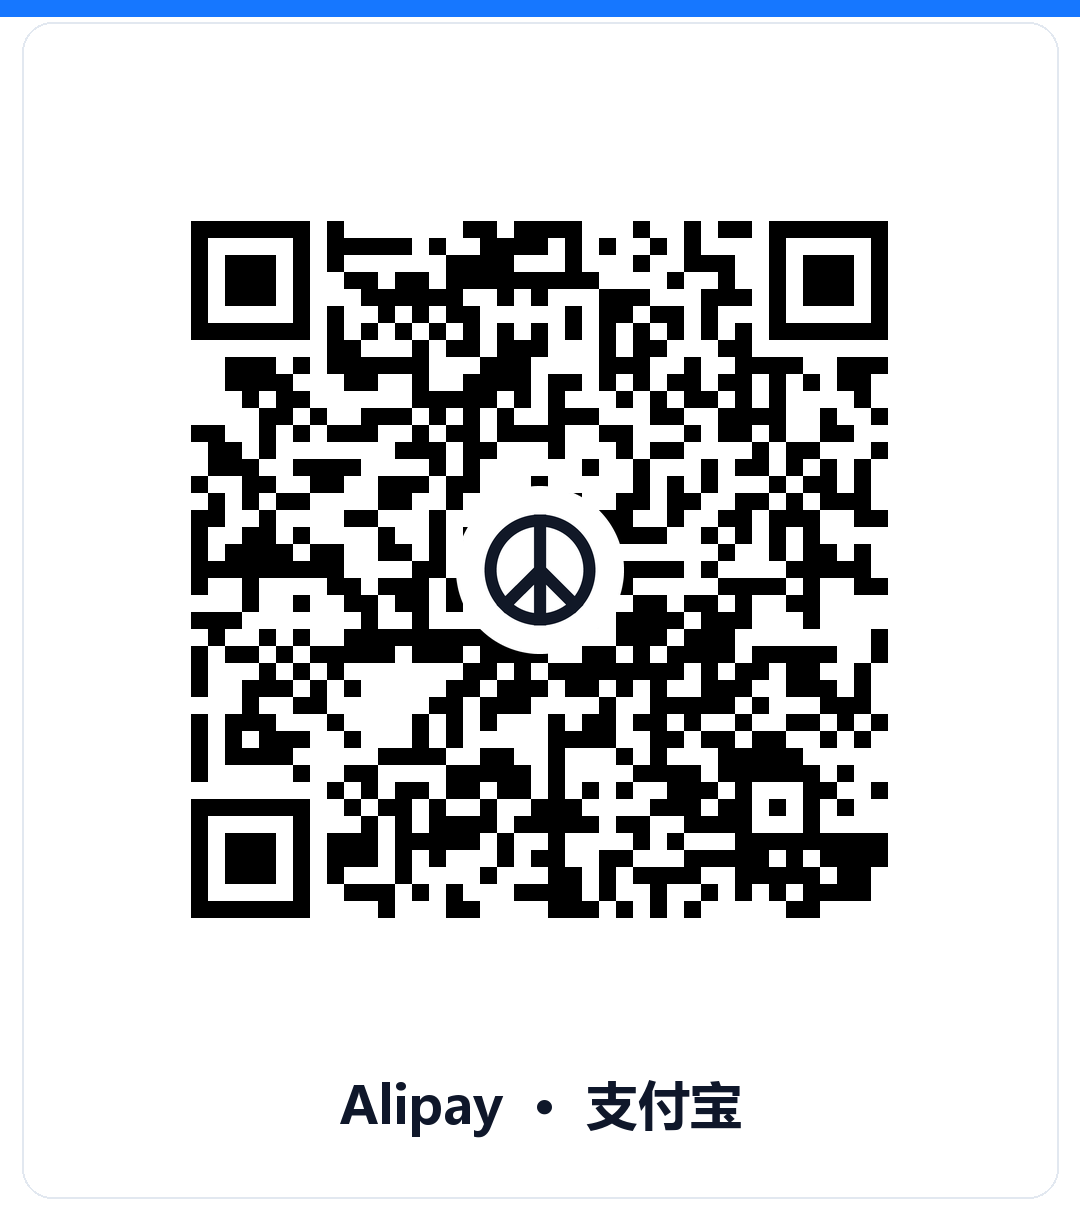
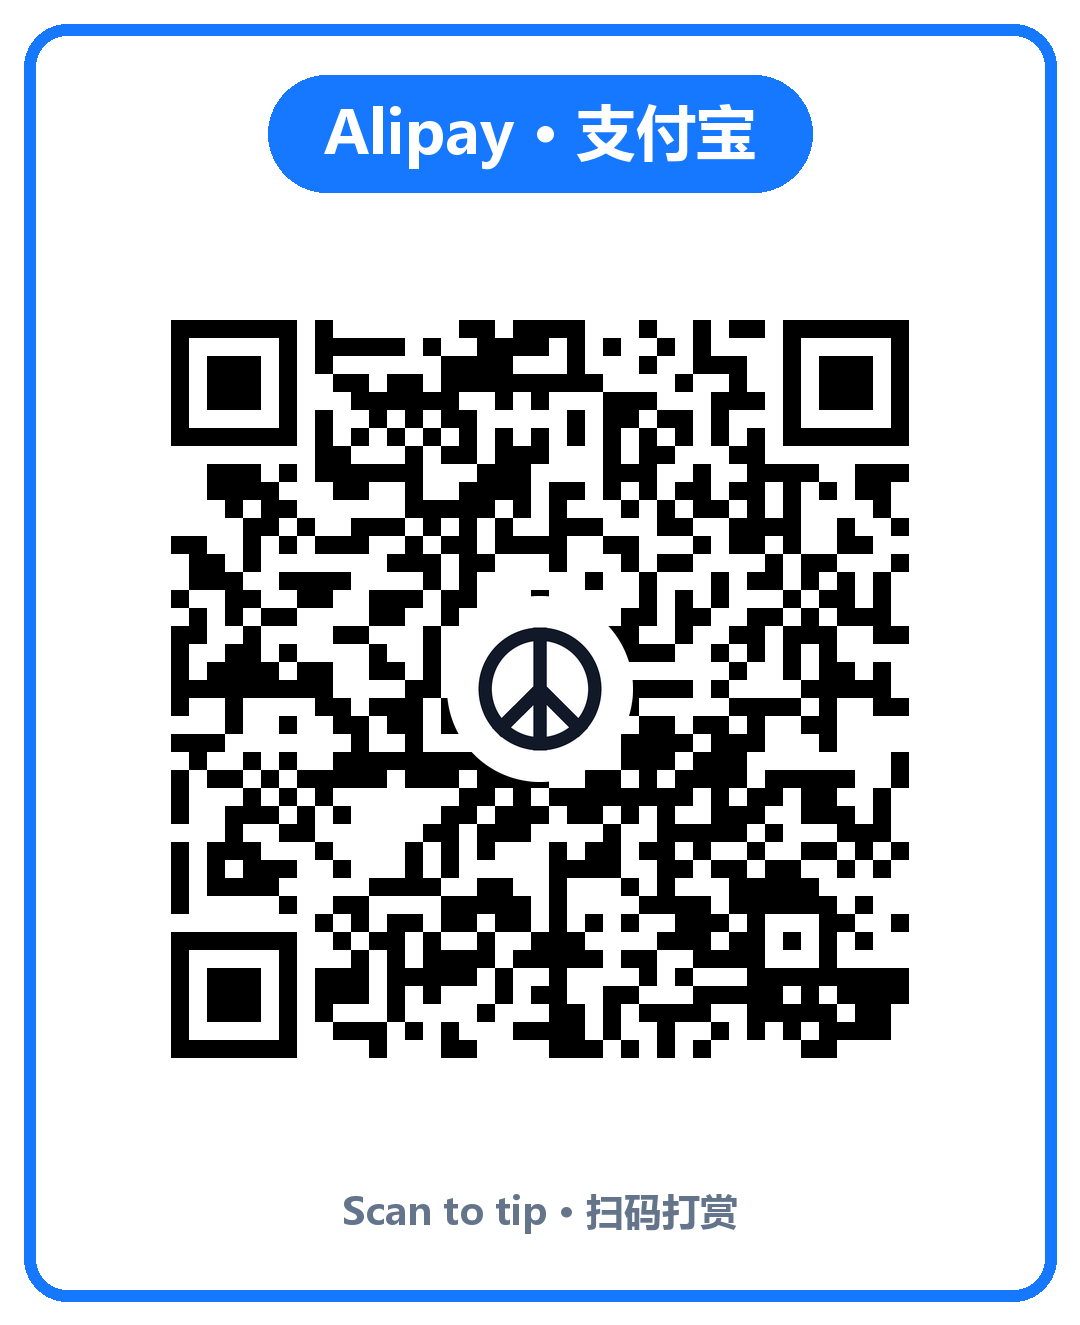
docs: add an MIT licence, brand-coloured tip cards and a working back-to-top link
- add the missing MIT LICENSE and surface it as a hero badge plus a Licence
  section; without it the repository was "all rights reserved" by default
- redraw both tip cards: the accent colour now fills a rounded frame and a
  header pill, so the WeChat card reads green (07C160) and the Alipay card
  blue (1677FF) -- palette only, still no platform logo or wordmark
- give the tip jar an actual pitch in both languages instead of burying it
  under "a star, a bug report or a tip all count"
- replace href="#" with a real id="top" anchor: GitHub rewrites user-supplied
  ids to user-content-top, so the bare "#" resolved to nothing and the link
  was dead

diff --git a/README.md b/README.md
@@ -1,4 +1,4 @@
-<p align="center"><b>🌐</b> English · <a href="docs/i18n/README.zh-CN.md">Chinese</a></p>
+<p align="center"><a id="top"></a><b>🌐</b> English · <a href="docs/i18n/README.zh-CN.md">Chinese</a></p>
 
 <p align="center"><img src="docs/banner.jpg" alt="LLM Privacy Gateway" width="100%" /></p>
 
@@ -12,6 +12,7 @@
   <a href="#-install"><img src="https://img.shields.io/badge/Cross--Agent-Codex%20%7C%20DSH%20%7C%20OpenClaw%20%7C%20WorkBuddy%20%7C%20Claude%20%7C%20Doubao-0e83cd" alt="Cross-agent tools" /></a>
   <a href="#-security-model"><img src="https://img.shields.io/badge/Encryption-AES--256--GCM-critical" alt="AES-256-GCM" /></a>
   <a href="#-how-it-works"><img src="https://img.shields.io/badge/Zero%20Local%20Compute-CPU%20Only-success" alt="Zero local compute" /></a>
+  <a href="LICENSE"><img src="https://img.shields.io/badge/License-MIT-3DA639" alt="MIT License" /></a>
 </p>
 
 <p align="center">
@@ -20,7 +21,8 @@
   <a href="#-install">Install</a> &nbsp;·&nbsp;
   <a href="#-quick-start">Quick start</a> &nbsp;·&nbsp;
   <a href="#-security-model">Security</a> &nbsp;·&nbsp;
-  <a href="#support">Support</a>
+  <a href="#-support">Support</a> &nbsp;·&nbsp;
+  <a href="#-license">License</a>
 </p>
 
 ---
@@ -97,13 +99,24 @@ Read `references/rules.md` for the full rule set and their exact patterns.
 - "The model fully understands it, yet the provider cannot decrypt it" is cryptographically impossible. What this gateway actually delivers: the real data cannot be obtained, and anything stolen cannot be reconstructed.
 - For high-risk content (core secrets), use `--local` or the encrypted store — keep it off the wire entirely.
 
-## Support
+## ☕ Support
 
-Spare-time project, no company behind it. If it saved you time, a star, a bug report or a tip all count.
+Spare-time project, no company behind it, no ads, no telemetry, no paid tier. Every feature stays free for everyone — that does not change whether you tip or not.
+
+So this is not a paywall, it is a tip jar. But count up what it has already given you: the afternoon you did not spend redacting a contract by hand, the client file you could hand to an API without hesitating first. If it saved you even one of those, sending a little back is the most direct way to keep the next one saved too. A tip turns into hours spent on this project, and those hours have no other source.
+
+- ⭐ **Star the repository** — free, and it is what actually gets the project in front of people
+- 🐛 **Report a bug** — honestly worth more than a tip
+- 📣 **Send it to one person who needs it** — costs nothing, reaches exactly the right person
+- ☕ **Send a tip** — the most direct way to buy the project more time
 
 <p align="center">
-  <a href="docs/SUPPORT.md"><b>☕ Support options</b></a>
+  <a href="docs/SUPPORT.md"><b>☕ Support options · payment codes inside</b></a>
 </p>
+
+## 📄 License
+
+Released under the [MIT License](LICENSE) — use it, fork it, embed it in commercial products. All that is asked in return is that the copyright notice travels with the code.
 
 ## 🌐 Translations
 
@@ -114,4 +127,4 @@ Spare-time project, no company behind it. If it saved you time, a star, a bug re
 
 ---
 
-<p align="center"><sub><a href="#">Back to top</a></sub></p>
+<p align="center"><sub><a href="#top">Back to top</a></sub></p>

diff --git a/docs/i18n/README.zh-CN.md b/docs/i18n/README.zh-CN.md
@@ -1,4 +1,4 @@
-<p align="center"><b>🌐</b> <a href="../../README.md">English</a> · 简体中文</p>
+<p align="center"><a id="top"></a><b>🌐</b> <a href="../../README.md">English</a> · 简体中文</p>
 
 <p align="center"><img src="../../docs/banner.jpg" alt="LLM Privacy Gateway" width="100%" /></p>
 
@@ -12,6 +12,7 @@
   <a href="#-安装"><img src="https://img.shields.io/badge/Cross--Agent-Codex%20%7C%20DSH%20%7C%20OpenClaw%20%7C%20WorkBuddy%20%7C%20Claude%20%7C%20Doubao-0e83cd" alt="跨智能体工具" /></a>
   <a href="#-安全模型"><img src="https://img.shields.io/badge/Encryption-AES--256--GCM-critical" alt="AES-256-GCM" /></a>
   <a href="#-工作原理"><img src="https://img.shields.io/badge/Zero%20Local%20Compute-CPU%20Only-success" alt="零本地算力" /></a>
+  <a href="../../LICENSE"><img src="https://img.shields.io/badge/License-MIT-3DA639" alt="MIT 许可证" /></a>
 </p>
 
 <p align="center">
@@ -20,7 +21,8 @@
   <a href="#-安装">安装</a> &nbsp;·&nbsp;
   <a href="#-快速开始">快速开始</a> &nbsp;·&nbsp;
   <a href="#-安全模型">安全</a> &nbsp;·&nbsp;
-  <a href="#支持">支持</a>
+  <a href="#-支持">支持</a> &nbsp;·&nbsp;
+  <a href="#-许可证">许可证</a>
 </p>
 
 ---
@@ -97,13 +99,24 @@ python scripts/setup_deps.py
 - "模型完全理解，同时服务商无法解密"在密码学上不可能成立。本网关实际做到的是：真实数据无法被获取，被窃取的内容也无法还原。
 - 高危内容（核心机密）请使用 `--local` 或加密存储 —— 完全不让它上网。
 
-## 支持
+## ☕ 支持
 
-业余项目，背后没有公司。如果它为你省下了时间，点个 Star、报个 Bug 或请我喝杯咖啡都算数。
+业余项目，背后没有公司，没有广告，没有遥测，也没有付费版本。所有功能对所有人都免费 —— 你打不打赏，这一点都不会变。
+
+所以这里不是付费墙，只是一个随喜的钱箱。不过可以算一笔账：那些本该手动脱敏的下午，是它替你省下来的；那些以前不敢交给 API 的客户文件，现在可以直接给。既然真省下过时间，回赠一点，就是让下一个“省下来的下午”继续发生 —— 每一笔打赏都会变成实打实投在这个项目上的时间，而这些时间没有别的来源。
+
+- ⭐ **给项目点个 Star** —— 不花钱，而且真正能让项目被更多人看到
+- 🐛 **提一个 Bug** —— 说实话，比打赏更有价值
+- 📣 **转给一个需要它的人** —— 零成本，而且能精准触达
+- ☕ **打赏** —— 最直接地为这个项目争取更多时间
 
 <p align="center">
-  <a href="SUPPORT.zh-CN.md"><b>☕ 打赏方式</b></a>
+  <a href="SUPPORT.zh-CN.md"><b>☕ 打赏方式 · 收款码见此</b></a>
 </p>
+
+## 📄 许可证
+
+本项目基于 [MIT 许可证](../../LICENSE) 发布 —— 可以自由使用、Fork、嵌入商业产品，唯一的要求是版权声明随代码一同保留。
 
 ## 🌐 语言版本
 
@@ -114,4 +127,4 @@ python scripts/setup_deps.py
 
 ---
 
-<p align="center"><sub><a href="#">回到顶部</a></sub></p>
+<p align="center"><sub><a href="#top">回到顶部</a></sub></p>

diff --git a/docs/SUPPORT.md b/docs/SUPPORT.md
@@ -2,7 +2,7 @@
 
 <h1 align="center">☕ Support</h1>
 
-<p align="center"><b>No company, no ads, no telemetry, no paid tier, no investor to report to.</b></p>
+<p align="center"><b>No company, no ads, no telemetry, no paid tier, no investor to report to — and the code is MIT, so everyone already has the same rights.</b></p>
 
 <p align="center"><sub>Support is entirely optional — every feature stays free for everyone, whether you tip or not.</sub></p>
 
@@ -10,18 +10,18 @@
 
 ## Ways to help
 
-Starring and reporting cost nothing, and they usually help more than money does.
+All four rows below are real help. The tip is the only one that turns straight into maintenance hours, which is why it is the one this page is actually about.
 
 | | What | Why it matters |
 | :---: | :--- | :--- |
 | ⭐ | **Star the repository** | Free, and it is what actually gets the project in front of people |
 | 🐞 | **Report a bug, open a pull request** | Frequently worth more than a tip |
 | 📣 | **Tell somebody who needs it** | Costs nothing, reaches exactly the right person |
-| ☕ | **Send a tip** | Optional — codes below |
+| ☕ | **Send a tip** | The most direct way to buy the project more time — codes below |
 
 ## Tips
 
-Both codes are static and can be scanned repeatedly. Use the app that matches the code.
+Both codes are static and can be scanned repeatedly. Use the app that matches the code — the green card is WeChat Pay, the blue one is Alipay.
 
 <p align="center">
   <img src="assets/wechat-pay.png" alt="WeChat Pay QR code" width="240" />
@@ -51,7 +51,7 @@ If you would rather use another route — GitHub Sponsors, Ko-fi, Buy Me a Coffe
 
 ## Transparency
 
-There is no business behind this repository and no plan to start one. Nothing received buys a roadmap slot, a license change, or priority support.
+There is no business behind this repository and no plan to start one. The code is [MIT licensed](../LICENSE), and that licence already hands everyone the same rights — so nothing received buys a private build, a roadmap slot or priority support. There is nothing left to sell.
 
 It buys the maintainer some time to keep the thing working, and that is all it is.
 

diff --git a/docs/i18n/SUPPORT.zh-CN.md b/docs/i18n/SUPPORT.zh-CN.md
@@ -2,7 +2,7 @@
 
 <h1 align="center">☕ 支持本项目</h1>
 
-<p align="center"><b>没有公司，没有广告，没有遥测，没有付费版本，也没有需要汇报的投资人。</b></p>
+<p align="center"><b>没有公司，没有广告，没有遥测，没有付费版本，也没有需要汇报的投资人 —— 代码是 MIT 许可证，所有人本来就拥有同样的权利。</b></p>
 
 <p align="center"><sub>打赏完全出于自愿 —— 无论是否打赏，所有功能对所有人都保持免费可用。</sub></p>
 
@@ -10,18 +10,18 @@
 
 ## 可以怎么帮忙
 
-点 Star 和提 Bug 都不花钱，而且通常比给钱更有用。
+下面四件事都是实打实的帮忙。其中只有打赏能直接变成维护时间 —— 这一页真正想说的也就是它。
 
 | | 做什么 | 为什么有用 |
 | :---: | :--- | :--- |
 | ⭐ | **给项目点个 Star** | 不花钱，而且真正能让项目被更多人看到 |
 | 🐞 | **提 Bug、发 PR** | 很多时候比打赏更有价值 |
 | 📣 | **转给需要的人** | 零成本，而且能精准触达 |
-| ☕ | **打赏** | 可选 —— 见下方收款码 |
+| ☕ | **打赏** | 最直接地为这个项目争取更多时间 —— 见下方收款码 |
 
 ## 打赏
 
-两个收款码都是静态码，可以重复扫码。用对应的应用扫即可。
+两个收款码都是静态码，可以重复扫码。用对应的应用扫即可 —— **绿框是微信支付，蓝框是支付宝**。
 
 <p align="center">
   <img src="../assets/wechat-pay.png" alt="微信支付收款码" width="240" />
@@ -51,7 +51,7 @@
 
 ## 说明
 
-这个仓库背后没有商业实体，也没有打算做。收到的任何支持都不会换来路线图优先权、授权条款变更或者优先技术支持。
+这个仓库背后没有商业实体，也没有打算做。代码采用 [MIT 许可证](../../LICENSE)，这份许可证本身就已经把同样的权利给了所有人 —— 所以收到的支持换不来私有版本、路线图优先权或者优先技术支持，这里没有别的东西可卖。
 
 它换来的只是维护者的一些时间，用来让这个项目继续能用，仅此而已。
 
